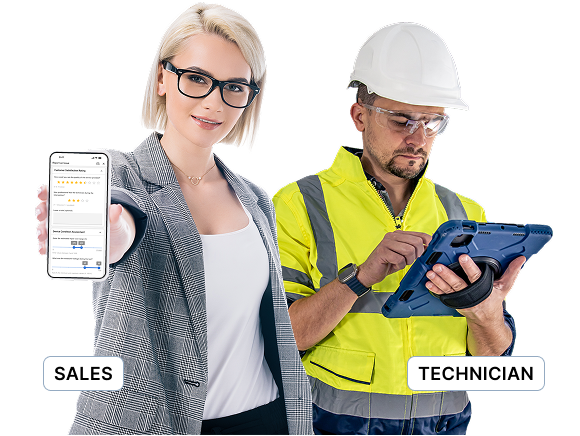
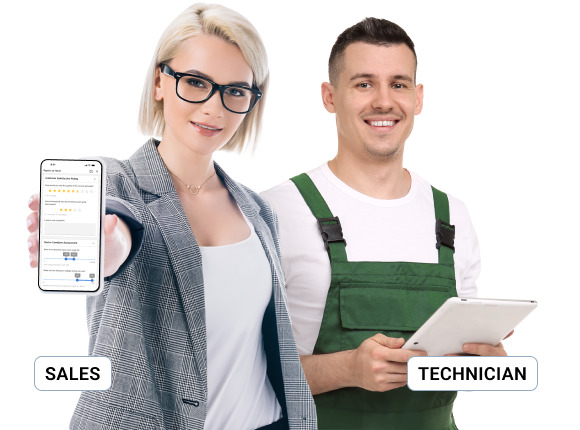
Zmena hlavneho obrazku -- stareho inspektora som vymenil za mladeho ;) a pridal aj pre hires devices obrazok

diff --git a/index.html b/index.html
@@ -52,7 +52,7 @@
                     </div>
                 </div>
                 <div class="hero-image">
-                    <img src="images/intro_image.png" alt="Resco Inspections for Field Technicians and Sales">
+                    <img src="images/intro_image.png" srcset="images/intro_image@2x.png 2x" alt="Resco Inspections for Field Technicians and Sales">
                 </div>
             </div>
         </section>
